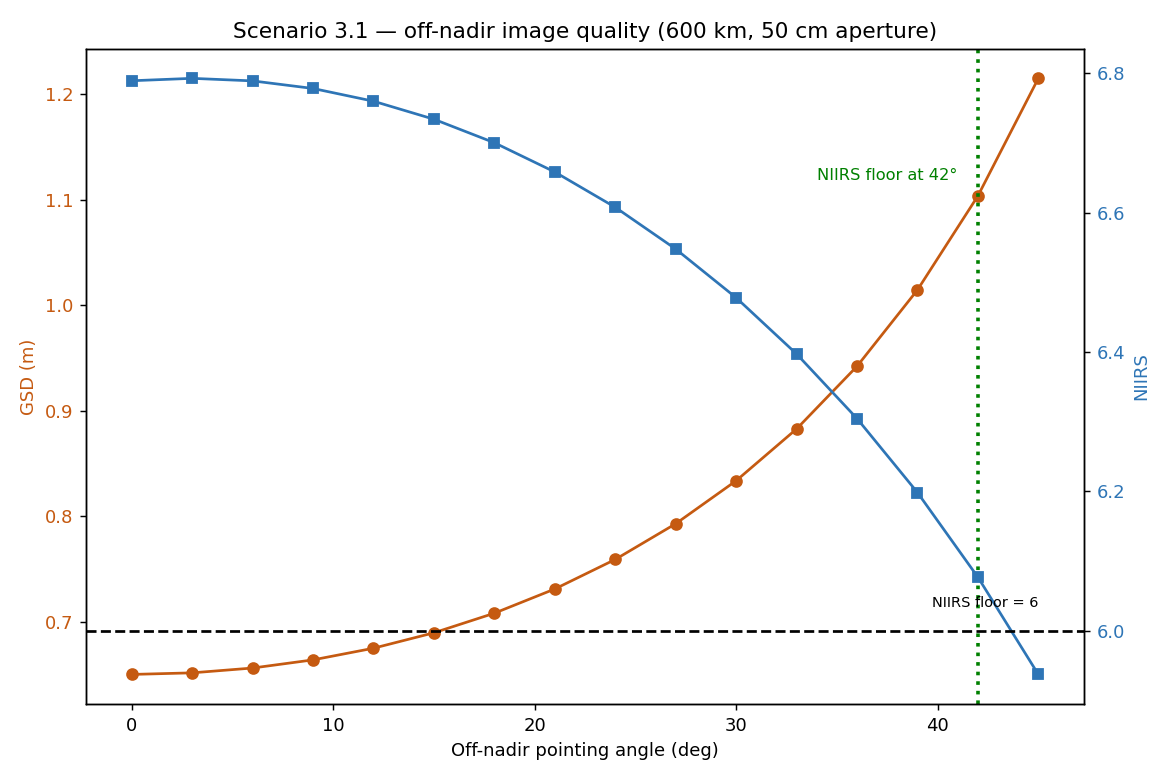
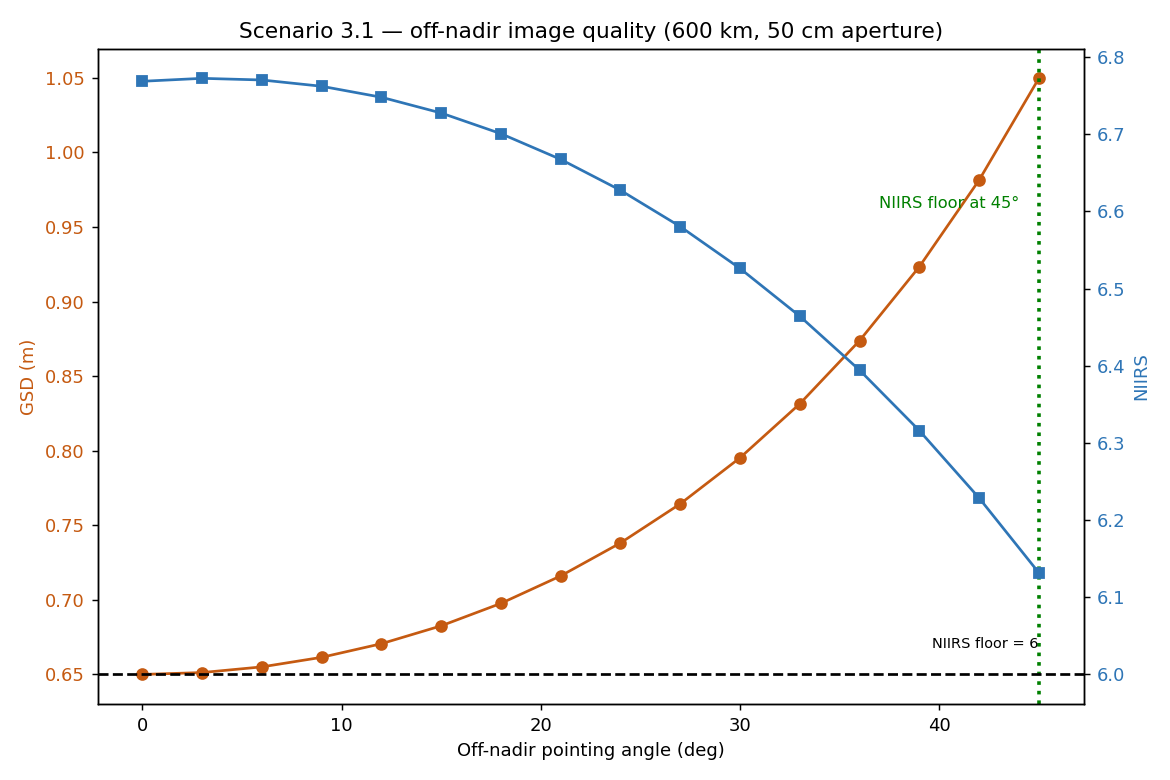
docs(scenarios): CU-176/178 — refresh 3.1 (ISR pass planning) + fix runner crash
Runner: add performance.niirs.allow_extrapolated=True in build_sensor so the
gated-NIIRS KeyError (r.metrics['niirs'] on an out-of-envelope config) no longer
crashes the run mid-sweep (CU-178).

Numbers: orbit kinematics unchanged; off-nadir geometry shifted — at 45° GSD
1.22→1.05 m, ground range 632→527 km, NIIRS 5.94→6.13. The NIIRS 6.0 floor is
now met across the full 0–45° slew (was ~42°), so agility rather than image
quality sets the access corridor at this config. Refreshed table, narrative,
and 2 figures.

diff --git a/scenarios/03_raj_mission_planner/3.1_isr_pass_planning/scripts/run_pass_planning.py b/scenarios/03_raj_mission_planner/3.1_isr_pass_planning/scripts/run_pass_planning.py
@@ -94,6 +94,10 @@ def build_sensor(off_nadir_deg: float) -> Sensor:
     s.set("readout.gain_e_per_dn", GAIN_E_PER_DN)
     s.set("readout.adc_bits", ADC_BITS)
     s.set("readout.full_well_capacity_e", FULL_WELL_E)
+    # CU-178: this config sits outside the GIQE-5 calibration envelope, so the
+    # applicability gate returns NIIRS N/A by default. The scenario intends the
+    # extrapolated NIIRS trend, so opt in explicitly (read as relative, not calibrated).
+    s.set("performance.niirs.allow_extrapolated", True)
     return s
 
 

diff --git a/scenarios/03_raj_mission_planner/3.1_isr_pass_planning/walkthrough.md b/scenarios/03_raj_mission_planner/3.1_isr_pass_planning/walkthrough.md
@@ -58,24 +58,27 @@ the run script as constants so the run is self-contained and reproducible.
 
 | Off-nadir | GSD | NIIRS | SNR | Ground range | Swath |
 |-----------|-----|-------|-----|--------------|-------|
-| 0° | 0.65 m | 6.79 | 86.2 | 0 km | 5.2 km |
-| 15° | 0.69 m | 6.73 | 90.0 | 161 km | 5.4 km |
-| 30° | 0.83 m | 6.48 | 92.4 | 352 km | 6.1 km |
-| 45° | 1.22 m | 5.94 | 92.8 | 632 km | 7.7 km |
+| 0° | 0.65 m | 6.77 | 83.8 | 0 km | 5.2 km |
+| 15° | 0.68 m | 6.73 | 87.5 | 146 km | 5.4 km |
+| 30° | 0.80 m | 6.53 | 90.0 | 312 km | 5.9 km |
+| 45° | 1.05 m | 6.13 | 90.8 | 527 km | 7.1 km |
 
 - **GSD grows with off-nadir angle** (roughly ∝ 1/cos² through the slant-
-  range and projection stretch), dragging NIIRS from 6.79 at nadir to 5.94
-  at 45°. The **NIIRS floor of 6.0 is met out to 42°.**
+  range and projection stretch), dragging NIIRS from 6.77 at nadir to 6.13
+  at 45°. The **NIIRS floor of 6.0 is met across the entire 0–45° slew
+  range** — the quality limit no longer binds inside the agility envelope.
 - **SNR rises slightly** off-nadir — the ground footprint per pixel grows
   faster than the slant-range path loss for this extended sunlit scene, so
   each pixel collects more photons. Image *quality* (NIIRS/GSD) still
   degrades because resolution, not SNR, is the binding term.
 - **Coverage:** nadir swath 5.2 km, area-coverage rate **35.9 km²/s**,
   ≈104,000 km² per daylight pass.
-- **Key planning insight:** the spacecraft can *slew* to 45° (632 km
-  cross-track reach) but can only *image at spec* to 42° (563 km). The
-  usable access corridor is set by NIIRS quality, not by agility — Raj can
-  see targets he cannot collect at acceptable quality.
+- **Key planning insight:** at this configuration the spacecraft can *slew*
+  to 45° (527 km cross-track reach) and still *image at spec* over that
+  whole range — NIIRS = 6.13 at the 45° agility limit, just above the 6.0
+  floor. Agility, not image quality, sets the usable access corridor here;
+  a tighter NIIRS floor (or a longer slant path) would reintroduce a
+  quality-limited corridor narrower than the slew envelope.
 
 ---
 
@@ -94,10 +97,13 @@ the run script as constants so the run is self-contained and reproducible.
   chain's `swath_width_m` through `performance.access_rate` — the
   scenario stitches the two together. That composition is the gap the
   orbit model was built to close.
-- **NIIRS extrapolation warnings** appear at ≥30° (GSD > 31.5 inch, above
-  the GIQE-5 calibration range) — the framework's Gap 22 flagging fires
-  correctly; the NIIRS values past that point carry reduced confidence,
-  which is why the 42° NIIRS-floor crossing is reported as approximate.
+- **NIIRS extrapolation warnings** appear at large off-nadir angles (GSD
+  above the GIQE-5 calibration range) — the framework's Gap 22 flagging
+  fires correctly, and the runner opts into the extrapolated trend via
+  `performance.niirs.allow_extrapolated` (CU-178). The NIIRS values in the
+  off-nadir tail carry reduced confidence and are read as a relative trend;
+  the floor is met across the full 0–45° slew here, so no in-range crossing
+  is reported.
 
 ---
 
